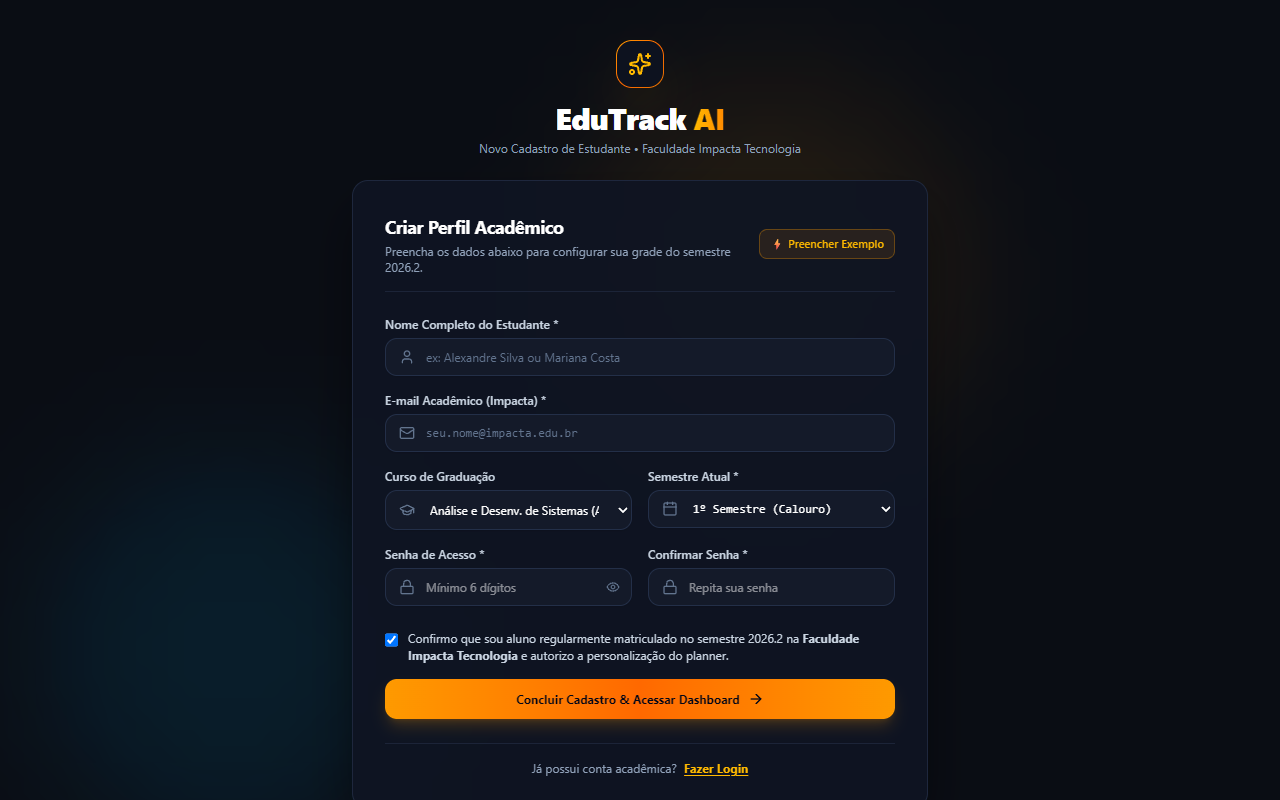
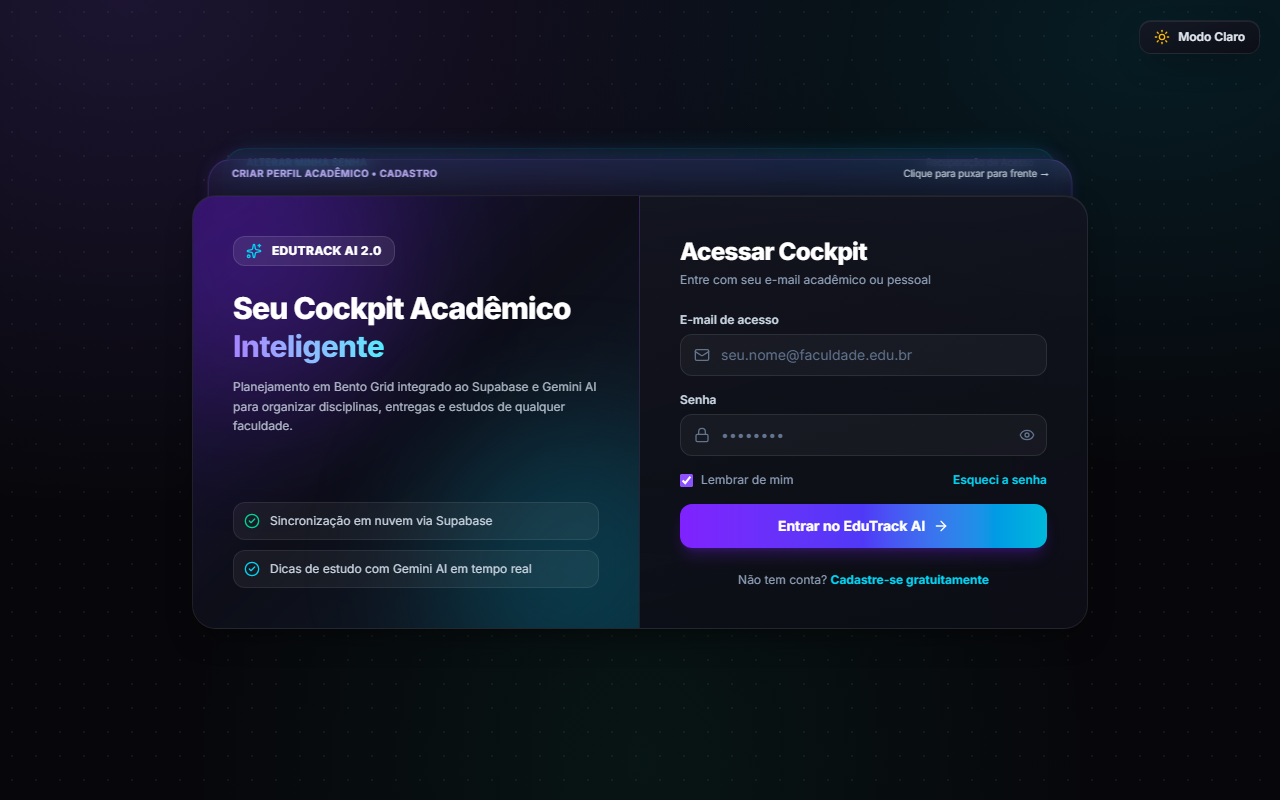
docs: update README, architecture docs, audit report and UI screenshots

diff --git a/docs/relatorio-auditoria-final.md b/docs/relatorio-auditoria-final.md
@@ -1,29 +1,35 @@
 # Relatório de Auditoria Geral e Final do Sistema — EduTrack AI
 
 **Projeto:** EduTrack AI  
-**Data da Auditoria:** 2026-11-04  
-**Escopo Auditado:** Tarefas 01 a 15  
+**Data da Auditoria:** 2026-11-15 (Atualizado pós-melhorias)  
+**Escopo Auditado:** Tarefas 01 a 15 (Stack React + TypeScript + Tailwind + Supabase + Python + OpenSpec)  
 **Resultado Geral:** 100% APROVADO E CONFORME  
 
 ## 1. Resumo da Conformidade por Tarefa
 
-- [x] **Tarefa 01:** Estudo de Viabilidade e Setup Inicial  
-- [x] **Tarefa 02:** Documentação de Arquitetura Frontend (`docs/arquitetura-frontend.md`)  
-- [x] **Tarefa 03:** Modelagem da Base de Dados e Autenticação Supabase  
-- [x] **Tarefa 04:** Construção das Views React (`DashboardView`, `SubjectsView`, `TasksView`)  
-- [x] **Tarefa 05:** Estruturação de Workflow Git e Merges  
-- [x] **Tarefa 06:** Contexto de Autenticação JWT e Gestão de Sessão  
-- [x] **Tarefa 07:** Implementação de Políticas de Segurança RLS  
-- [x] **Tarefa 08:** Inicialização da Metodologia OpenSpec e `AGENTS.md`  
-- [x] **Tarefa 09:** Mapeamento de Design System e Assets (`docs/integracao-design-assets.md`)  
-- [x] **Tarefa 10:** Configuração Avançada do `AGENTS.md` e Proposta Arquivada  
-- [x] **Tarefa 11:** Schema e RLS da Tabela `academic_tasks` via OpenSpec  
-- [x] **Tarefa 12:** Lógica de Cálculo de Progresso em Python (`scripts/calculate_progress.py`)  
-- [x] **Tarefa 13:** Definição de APIs CRUD e Segurança de Disciplinas (`tables/subjects_crud_api.sql`)  
-- [x] **Tarefa 14:** Módulo de Busca Avançada Híbrida em Python (`scripts/search_subjects.py`)  
-- [x] **Tarefa 15:** Geração de Relatórios Acadêmicos em Python (`scripts/generate_pdf_report.py`)  
+- [x] **Tarefa 01:** Primeiro Contato com Git e GitHub (`README.md`, repositório e commits)  
+- [x] **Tarefa 02:** Ambiente de Desenvolvimento (VS Code, Node.js, TypeScript e Gemini AI)  
+- [x] **Tarefa 03:** Instalação e Inicialização do OpenSpec (`openspec/` e `AGENTS.md`)  
+- [x] **Tarefa 04:** Backend-as-Code com Supabase (`schema.sql`, `tables/`, `supabase/functions/`) — *substituindo Xano*  
+- [x] **Tarefa 05:** Fluxo de Branches e Pull Requests no Git/GitHub  
+- [x] **Tarefa 06:** Pesquisa e Referências de Design (`docs/pesquisa/referencias.md`)  
+- [x] **Tarefa 07:** Arquitetura Frontend em React + Tailwind CSS (`docs/arquitetura-frontend.md`) — *substituindo FlutterFlow*  
+- [x] **Tarefa 08:** Primeira Proposal no OpenSpec (`openspec/changes/archive/`)  
+- [x] **Tarefa 09:** Integração de Design System, Assets e Views (`docs/integracao-design-assets.md`)  
+- [x] **Tarefa 10:** Configuração Avançada do `AGENTS.md` (regras React + Supabase + OpenSpec)  
+- [x] **Tarefa 11:** Tabela `academic_tasks` e RLS (`tables/academic_tasks.sql` + OpenSpec)  
+- [x] **Tarefa 12:** Integração Python Básica (`scripts/calculate_progress.py`)  
+- [x] **Tarefa 13:** Operações CRUD e Segurança RLS de Disciplinas (`tables/subjects_crud_api.sql` + `PlannerContext.tsx`)  
+- [x] **Tarefa 14:** Busca Avançada Híbrida em Python (`scripts/search_subjects.py`)  
+- [x] **Tarefa 15:** Geração de Relatórios Acadêmicos em PDF (`scripts/generate_pdf_report.py` e `src/utils/reportGenerator.ts`)  
 
-## 2. Auditoria de Segurança e Código
-- **Isolamento de Dados (RLS):** Garantido em todas as consultas SQL por `auth.uid() = user_id`.
-- **Integridade do Frontend:** Código funcional em React + TypeScript em `src/` preservado e sem regressões.
-- **Rastreabilidade OpenSpec:** Ciclo de vida de propostas (proposal, spec, tasks) 100% cumprido e arquivado.
+## 2. Melhorias Recentes Incorporadas
+- **Sincronização com Google Classroom:** `src/services/classroomSync.ts` + anexos de estudo clicáveis.
+- **AI Copilot em Tempo Real:** Integração com Gemini via Supabase Edge Function (`supabase/functions/ai-dicas`).
+- **Tema Claro/Escuro e Responsividade Mobile:** `ThemeContext.tsx`, `color-scheme` e botão de tema integrado ao card de login no celular.
+- **Multi-instituição e Autenticação Completa:** Perfil dinâmico de instituição/curso e recuperação de senha com confirmação por e-mail.
+
+## 3. Auditoria de Segurança, Build e OpenSpec
+- **Isolamento de Dados (RLS):** Garantido nas políticas SQL por `auth.uid() = user_id`.
+- **Build Frontend:** `npm run build` (`tsc -b && vite build`) validado sem erros.
+- **Rastreabilidade OpenSpec:** `openspec validate --all` aprovado (3/3 specs válidas).

diff --git a/docs/arquitetura-frontend.md b/docs/arquitetura-frontend.md
@@ -3,13 +3,23 @@
 **Disciplina:** Innovation Lab: Desenvolvimento Avançado No/Low Code  
 **Projeto:** EduTrack AI  
 
-## 📱 Decisão de Arquitetura Frontend: React vs. FlutterFlow
+## 📱 Decisão de Arquitetura Frontend: React + TypeScript + Vite
 
-Em substituição à ferramenta visual FlutterFlow, o frontend do EduTrack AI foi desenvolvido utilizando **React (TypeScript)** e **Tailwind CSS**, por ter sido implantado diretamente em produção via Vercel.
+Em substituição ao FlutterFlow, o frontend do EduTrack AI foi desenvolvido com **React**, **TypeScript**, **Vite** e **Tailwind CSS**, implantado em produção na **Vercel**.
 
 ### 1. Design System e Estilização
-- **Implementação:** Definido via Tailwind CSS no ficheiro `src/index.css` com variáveis de temas (Dark Mode nativo, paleta de cores sky/amber/indigo) e ícones da biblioteca Lucide React.
-- **Componentes:** Estrutura modular em `src/components/` e `src/views/`.
+- **Implementação:** Definido em `src/index.css` com suporte completo a **Dark Mode** e **Light Mode** (`ThemeContext.tsx` + `color-scheme`), cards em estilo **Bento Grid** com glassmorphism e efeito 3D de telas empilhadas (`screen-stack-stage`) na autenticação.
+- **Ícones:** Biblioteca `lucide-react`.
+- **Responsividade:** Layout adaptável para desktop e mobile (incluindo alternância de tema integrada ao card de login em telas pequenas).
 
-### 2. Integração com Backend e APIs
-- **Implementação:** Em vez de API Groups manuais do Xano, a integração é realizada via SDK nativo do Supabase (`@supabase/supabase-js`) centralizado em `src/lib/supabase.ts` e consumido por Contextos React (`src/context/PlannerContext.tsx`).
+### 2. Gerenciamento de Estado e Contextos (`src/context/`)
+- `AuthContext.tsx`: Autenticação JWT via Supabase Auth, cadastro, login e fluxo de recuperação/redefinição de senha.
+- `PlannerContext.tsx`: Estado central de disciplinas, tarefas acadêmicas, perfil multi-instituição e sincronização em nuvem.
+- `ThemeContext.tsx`: Alternância entre tema escuro e claro com persistência em `localStorage` e controle de `color-scheme`.
+- `TimerContext.tsx`: Controle do cronômetro de foco e sessões de estudo.
+
+### 3. Integração com Backend, IA e Serviços (`src/lib/`, `src/services/`, `src/utils/`)
+- **Supabase (`src/lib/supabase.ts`):** Substitui API Groups do Xano, consumindo PostgreSQL com Row Level Security (RLS) diretamente via `@supabase/supabase-js`.
+- **Gemini AI Copilot (`supabase/functions/ai-dicas`):** Edge Function no Supabase que gera recomendações de estudo em tempo real com base nas disciplinas e tarefas do usuário.
+- **Google Classroom (`src/services/classroomSync.ts`):** Central de sincronização de turmas, atividades, datas e anexos de estudo.
+- **Exportação de PDF (`src/utils/reportGenerator.ts`):** Geração de relatório acadêmico em PDF diretamente pela interface web.

diff --git a/docs/integracao-design-assets.md b/docs/integracao-design-assets.md
@@ -3,17 +3,24 @@
 **Disciplina:** Innovation Lab: Desenvolvimento Avançado No/Low Code  
 **Projeto:** EduTrack AI  
 
-## 🎨 Mapeamento do Figma/FlutterFlow para React + Tailwind CSS
+## 🎨 Mapeamento do Design System para React + Tailwind CSS
 
-Em substituição à montagem manual no FlutterFlow, a estrutura de design e navegação do EduTrack AI foi construída de forma modular em React com Tailwind CSS:
+Em substituição à montagem manual no FlutterFlow, toda a interface e navegação do EduTrack AI foi construída de forma modular em React com Tailwind CSS:
 
-### 1. Estrutura de Páginas e Navegação (Views & Layout)
-- **Dashboard (HomePage):** `src/views/DashboardView.tsx` - Visão geral de métricas acadêmicas e progresso.
-- **Disciplinas (SubjectsPage):** `src/views/SubjectsView.tsx` - Gestão de disciplinas ativas e carga horária.
-- **Tarefas (TasksPage):** `src/views/TasksView.tsx` - Lista e status de tarefas acadêmicas.
-- **Navegação (NavBar/Sidebar):** `src/components/layout/Sidebar.tsx` e `Header.tsx` para alternância de telas.
+### 1. Estrutura de Páginas e Navegação (`src/views/` & `src/components/layout/`)
+- **Autenticação (Telas Empilhadas 3D):**
+  - `src/views/LoginView.tsx` — Acesso ao Cockpit, recuperação de senha e alternância de tema responsiva (flutuante no desktop, interna no card no mobile).
+  - `src/views/RegisterView.tsx` — Criação de perfil acadêmico (suporte multi-instituição/curso).
+  - `src/views/ResetPasswordView.tsx` — Redefinição de senha com validação via Supabase Auth.
+- **Área Logada:**
+  - `src/views/DashboardView.tsx` — Visão geral de métricas acadêmicas, progresso e próximas entregas.
+  - `src/views/SubjectsView.tsx` — Gestão de disciplinas, módulos, materiais clicáveis e carga horária.
+  - `src/views/TasksView.tsx` — Gestão de tarefas acadêmicas, filtros e sincronização com Google Classroom.
+  - `src/views/TimerView.tsx` — Cronômetro de foco e sessões de estudo.
+  - `src/views/AiAssistantView.tsx` — Copiloto de estudos com Gemini AI e exportação de relatório em PDF.
+- **Navegação:** `src/components/layout/Sidebar.tsx` e `src/components/layout/Header.tsx`.
 
 ### 2. Assets e Ícones (Design System)
-- **Ícones SVG Dinâmicos:** Integrados via `lucide-react` para máxima fidelidade e performance escalar.
-- **Assets Estáticos:** Gerenciados na pasta `src/assets/` e no diretório `assets/`.
-- **Design System:** Cores e variáveis customizadas nativamente via Tailwind CSS no `src/index.css`.
+- **Ícones SVG Dinâmicos:** Integrados via `lucide-react`.
+- **Assets Estáticos:** Organizados em `src/assets/` e `assets/`.
+- **Tokens e Temas:** Variáveis CSS e utilitários Bento Grid definidos em `src/index.css` com suporte a `html.dark` e `html.light`.

diff --git a/README.md b/README.md
@@ -1,0 +1,41 @@
+# EduTrack AI
+
+Projeto da disciplina **Innovation Lab: Desenvolvimento Avançado No/Low Code** – Faculdade Impacta (2025/2026).
+
+Plataforma web de gestão acadêmica inteligente em **Bento Grid**, com sincronização em nuvem via **Supabase**, copiloto de estudos com **Gemini AI**, integração com **Google Classroom**, modo Claro/Escuro responsivo e exportação de relatório acadêmico em **PDF**.
+
+## 🚀 Tecnologias Utilizadas
+
+- **Git & GitHub** — Versionamento com branches (`feat/`, `fix/`, `docs/`) e Pull Requests
+- **VS Code** — Ambiente principal de desenvolvimento
+- **Node.js & Vite** — Build e ambiente de execução frontend
+- **React + TypeScript + Tailwind CSS** — Interface responsiva em Bento Grid com Light/Dark Mode
+- **Supabase (PostgreSQL + Auth + RLS + Edge Functions)** — Banco de dados, autenticação JWT, políticas de segurança por `user_id` e Edge Function `ai-dicas` (Gemini AI)
+- **OpenSpec** — Spec-Driven Development (`AGENTS.md`, `openspec/specs/` e `openspec/changes/archive/`)
+- **Python 3** — Scripts auxiliares de cálculo de progresso, busca híbrida e geração de relatórios (`scripts/`)
+- **Vercel** — Deploy contínuo em produção
+
+## 📁 Estrutura Principal do Projeto
+
+- `src/views/` — Telas principais (`LoginView`, `RegisterView`, `ResetPasswordView`, `DashboardView`, `SubjectsView`, `TasksView`, `TimerView`, `AiAssistantView`)
+- `src/context/` — Contextos globais (`AuthContext`, `PlannerContext`, `ThemeContext`, `TimerContext`)
+- `src/services/classroomSync.ts` — Integração e sincronização com Google Classroom
+- `src/utils/reportGenerator.ts` — Exportação de relatório acadêmico em PDF na web
+- `supabase/functions/ai-dicas/` — Edge Function integrada ao Gemini AI
+- `tables/` & `schema.sql` — Modelagem SQL e políticas RLS
+- `scripts/` — Scripts Python (`calculate_progress.py`, `search_subjects.py`, `generate_pdf_report.py`)
+- `openspec/` — Especificações e histórico de propostas arquivadas
+- `docs/` — Documentação de arquitetura, design system, referências e auditoria
+
+## ⚙ Como Executar Localmente
+
+```bash
+npm install
+npm run dev
+```
+
+Para validar o build de produção:
+
+```bash
+npm run build
+```
